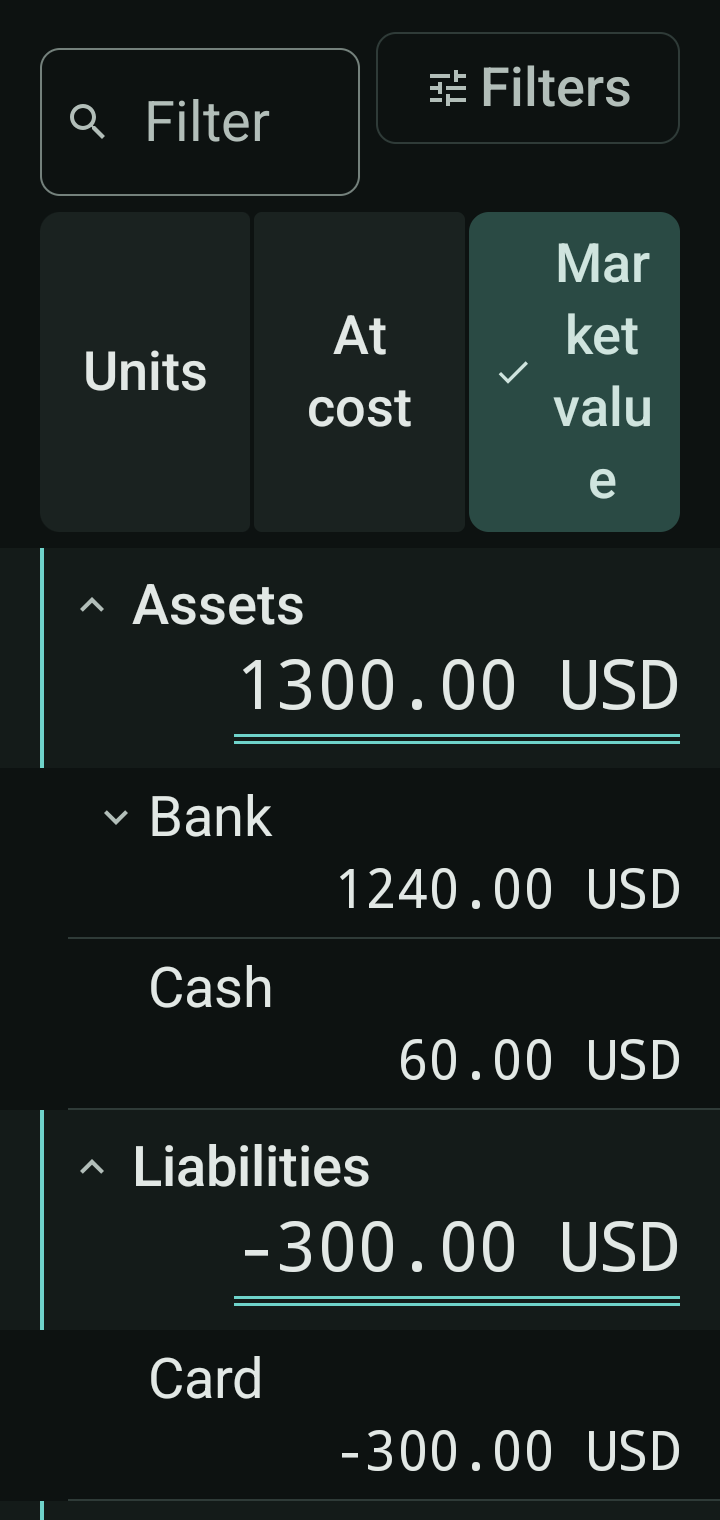
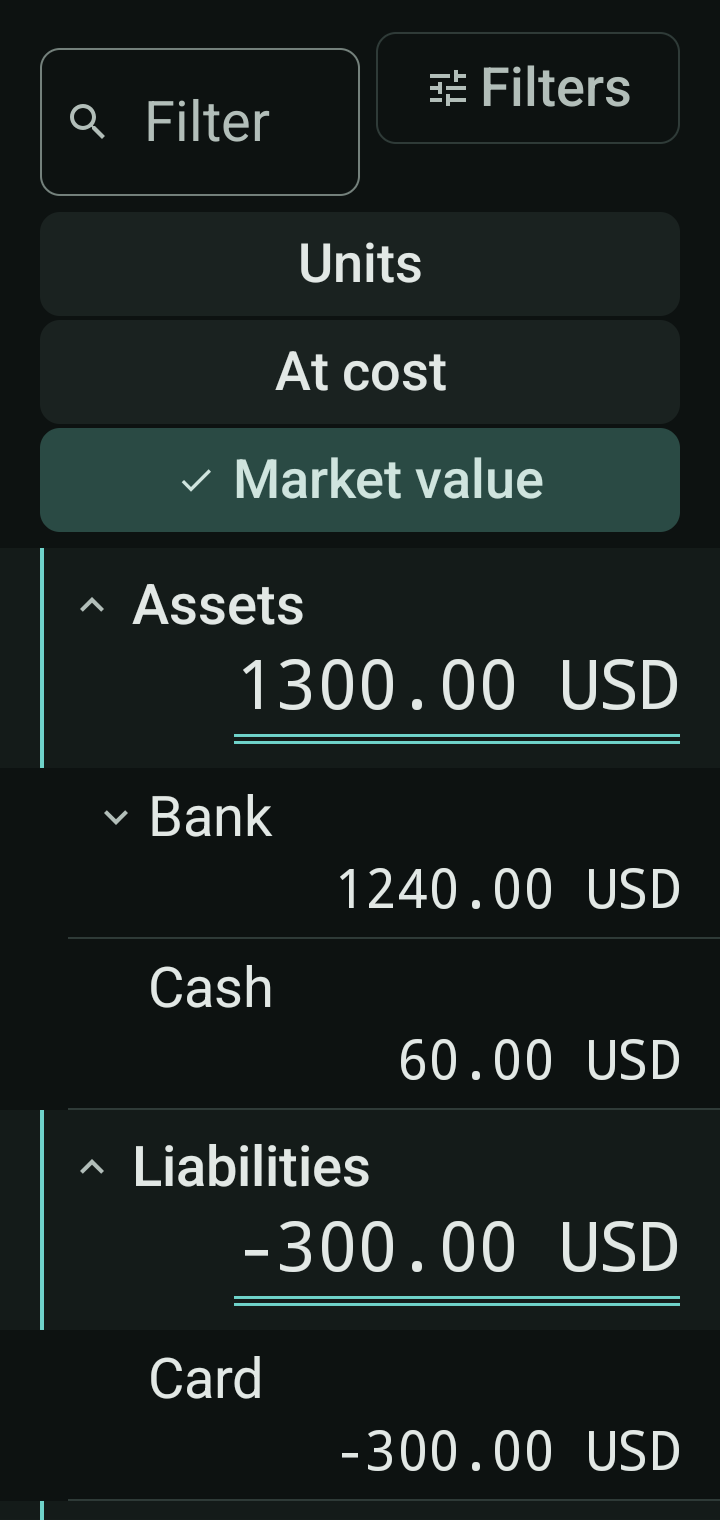
Home, Journal and Balances: the basis choice stacks at large text instead of breaking a word (#299)

Changed region(s): [[0.0306, 0.1237, 0.9472, 0.3711]]

diff --git a/app/src/main/kotlin/io/github/pintofi/beanbook/app/ui/ExpressiveControls.kt b/app/src/main/kotlin/io/github/pintofi/beanbook/app/ui/ExpressiveControls.kt
@@ -4,6 +4,8 @@ import androidx.compose.foundation.BorderStroke
 import androidx.compose.foundation.background
 import androidx.compose.foundation.layout.Arrangement
 import androidx.compose.foundation.layout.Box
+import androidx.compose.foundation.layout.BoxWithConstraints
+import androidx.compose.foundation.layout.Column
 import androidx.compose.foundation.layout.IntrinsicSize
 import androidx.compose.foundation.layout.Row
 import androidx.compose.foundation.layout.fillMaxHeight
@@ -29,14 +31,17 @@ import androidx.compose.material3.ToggleButtonDefaults
 import androidx.compose.material3.ToggleButtonShapes
 import androidx.compose.material3.toShape
 import androidx.compose.runtime.Composable
+import androidx.compose.runtime.remember
 import androidx.compose.ui.Alignment
 import androidx.compose.ui.Modifier
 import androidx.compose.ui.graphics.Color
+import androidx.compose.ui.platform.LocalDensity
 import androidx.compose.ui.semantics.Role
 import androidx.compose.ui.semantics.contentDescription
 import androidx.compose.ui.semantics.role
 import androidx.compose.ui.semantics.selected
 import androidx.compose.ui.semantics.semantics
+import androidx.compose.ui.text.rememberTextMeasurer
 import androidx.compose.ui.text.style.TextAlign
 import androidx.compose.ui.text.style.TextOverflow
 import androidx.compose.ui.unit.Dp
@@ -76,53 +81,111 @@ fun <T> ConnectedChoiceRow(
     border: BorderStroke? = null,
     maxLines: Int = Int.MAX_VALUE,
 ) {
-    // Intrinsic height, so a label that wraps at 200% text makes its whole row taller rather
-    // than leaving one segment standing above the others.
-    Row(
-        modifier = modifier
-            .height(IntrinsicSize.Min)
-            .selectableGroup(),
-        horizontalArrangement = Arrangement.spacedBy(ButtonGroupDefaults.ConnectedSpaceBetween),
-        verticalAlignment = Alignment.CenterVertically,
-    ) {
-        options.forEachIndexed { index, option ->
-            val chosen = option == selected
-            ToggleButton(
-                checked = chosen,
-                // A chosen segment stays chosen when tapped again: one option is always on,
-                // as it was in the segmented row this replaces.
-                onCheckedChange = { onSelect(option) },
-                modifier = Modifier
-                    .weight(1f)
-                    .fillMaxHeight()
-                    .semantics {
-                        role = Role.RadioButton
-                        this.selected = chosen
-                        describe?.let { contentDescription = it(option) }
-                    },
-                shapes = connectedShapes(index, options.size),
-                colors = colors,
-                // Flat: the row sits on ruled paper, and a shadow under each segment would
-                // make five objects of what is one control.
-                elevation = null,
-                border = border,
-                contentPadding = ConnectedChoicePadding,
-                icon = if (chosen) {
-                    { Icon(Icons.Filled.Check, contentDescription = null) }
-                } else {
-                    null
-                },
+    BoxWithConstraints(modifier = modifier) {
+        // A label may wrap between words, but never inside one: "Mar / ket / val / ue" is not a
+        // label. When even the longest word does not fit its share of the row, as with three
+        // choices at 200% text on a narrow phone, the segments stack, one to a line.
+        val stacked = maxLines == Int.MAX_VALUE && !wordsFit(options.map(label), maxWidth)
+        if (stacked) {
+            Column(
+                modifier = Modifier.fillMaxWidth().selectableGroup(),
+                verticalArrangement = Arrangement.spacedBy(ButtonGroupDefaults.ConnectedSpaceBetween),
             ) {
-                Text(
-                    label(option),
-                    maxLines = maxLines,
-                    overflow = if (maxLines == Int.MAX_VALUE) TextOverflow.Clip else TextOverflow.Ellipsis,
-                    textAlign = TextAlign.Center,
-                )
+                options.forEach { option ->
+                    ChoiceButton(
+                        option, option == selected, onSelect, label, describe, colors, border, maxLines,
+                        shapes = connectedShapes(0, 1),
+                        modifier = Modifier.fillMaxWidth(),
+                    )
+                }
+            }
+        } else {
+            // Intrinsic height, so a label that wraps at 200% text makes its whole row taller rather
+            // than leaving one segment standing above the others.
+            Row(
+                modifier = Modifier
+                    .height(IntrinsicSize.Min)
+                    .selectableGroup(),
+                horizontalArrangement = Arrangement.spacedBy(ButtonGroupDefaults.ConnectedSpaceBetween),
+                verticalAlignment = Alignment.CenterVertically,
+            ) {
+                options.forEachIndexed { index, option ->
+                    ChoiceButton(
+                        option, option == selected, onSelect, label, describe, colors, border, maxLines,
+                        shapes = connectedShapes(index, options.size),
+                        modifier = Modifier.weight(1f).fillMaxHeight(),
+                    )
+                }
             }
         }
     }
 }
+
+/** Whether the longest word of every label fits its share of a row [width] wide, at the current text size. */
+@Composable
+private fun wordsFit(labels: List<String>, width: Dp): Boolean {
+    val measurer = rememberTextMeasurer()
+    val style = MaterialTheme.typography.labelLarge
+    val density = LocalDensity.current
+    return remember(labels, width, style, density) {
+        val gaps = ButtonGroupDefaults.ConnectedSpaceBetween * (labels.size - 1)
+        val room = (width - gaps) / labels.size - ConnectedChoicePadding.horizontal() - CHECK_ROOM
+        val share = with(density) { room.toPx() }
+        labels.flatMap { it.split(' ') }.all { measurer.measure(it, style).size.width <= share }
+    }
+}
+
+@Composable
+private fun <T> ChoiceButton(
+    option: T,
+    chosen: Boolean,
+    onSelect: (T) -> Unit,
+    label: (T) -> String,
+    describe: ((T) -> String)?,
+    colors: ToggleButtonColors,
+    border: BorderStroke?,
+    maxLines: Int,
+    shapes: ToggleButtonShapes,
+    modifier: Modifier,
+) {
+    ToggleButton(
+        checked = chosen,
+        // A chosen segment stays chosen when tapped again: one option is always on,
+        // as it was in the segmented row this replaces.
+        onCheckedChange = { onSelect(option) },
+        modifier = modifier.semantics {
+            role = Role.RadioButton
+            this.selected = chosen
+            describe?.let { contentDescription = it(option) }
+        },
+        shapes = shapes,
+        colors = colors,
+        // Flat: the row sits on ruled paper, and a shadow under each segment would
+        // make five objects of what is one control.
+        elevation = null,
+        border = border,
+        contentPadding = ConnectedChoicePadding,
+        icon = if (chosen) {
+            { Icon(Icons.Filled.Check, contentDescription = null) }
+        } else {
+            null
+        },
+    ) {
+        Text(
+            label(option),
+            maxLines = maxLines,
+            overflow = if (maxLines == Int.MAX_VALUE) TextOverflow.Clip else TextOverflow.Ellipsis,
+            textAlign = TextAlign.Center,
+        )
+    }
+}
+
+/** What the tick on a chosen segment takes from the label: its icon and the space beside it. */
+private val CHECK_ROOM = 26.dp
+
+private fun androidx.compose.foundation.layout.PaddingValues.horizontal(): Dp =
+    calculateLeftPadding(androidx.compose.ui.unit.LayoutDirection.Ltr) +
+        calculateRightPadding(androidx.compose.ui.unit.LayoutDirection.Ltr)
 
 /**
  * Narrower side padding than a standalone button's 16dp: three segments share a phone's width,

diff --git a/app/src/androidTest/kotlin/io/github/pintofi/beanbook/app/ui/ConnectedChoiceRowTest.kt b/app/src/androidTest/kotlin/io/github/pintofi/beanbook/app/ui/ConnectedChoiceRowTest.kt
@@ -1,0 +1,86 @@
+package io.github.pintofi.beanbook.app.ui
+
+import androidx.activity.ComponentActivity
+import androidx.compose.foundation.layout.Box
+import androidx.compose.foundation.layout.fillMaxHeight
+import androidx.compose.foundation.layout.padding
+import androidx.compose.foundation.layout.width
+import androidx.compose.material3.MaterialTheme
+import androidx.compose.runtime.CompositionLocalProvider
+import androidx.compose.ui.Modifier
+import androidx.compose.ui.platform.LocalDensity
+import androidx.compose.ui.semantics.SemanticsActions
+import androidx.compose.ui.semantics.getOrNull
+import androidx.compose.ui.test.junit4.v2.createAndroidComposeRule
+import androidx.compose.ui.test.onNodeWithText
+import androidx.compose.ui.text.TextLayoutResult
+import androidx.compose.ui.unit.Density
+import androidx.compose.ui.unit.dp
+import androidx.test.ext.junit.runners.AndroidJUnit4
+import org.junit.Assert.assertEquals
+import org.junit.Assert.assertTrue
+import org.junit.Rule
+import org.junit.Test
+import org.junit.runner.RunWith
+
+/**
+ * The Units, At cost and Market value row at double text size on a narrow phone: a label may wrap
+ * between words, but never inside one ("Mar / ket / val / ue").
+ */
+@RunWith(AndroidJUnit4::class)
+class ConnectedChoiceRowTest {
+    @get:Rule val compose = createAndroidComposeRule<ComponentActivity>()
+
+    private val labels = listOf("Units", "At cost", "Market value")
+
+    private fun render(widthDp: Int, fontScale: Float) {
+        compose.setContent {
+            val base = LocalDensity.current
+            CompositionLocalProvider(LocalDensity provides Density(base.density, fontScale)) {
+                MaterialTheme {
+                    Box(Modifier.width(widthDp.dp).fillMaxHeight().padding(horizontal = 16.dp)) {
+                        ConnectedChoiceRow(options = labels, selected = labels.last(), onSelect = {}, label = { it })
+                    }
+                }
+            }
+        }
+        compose.waitForIdle()
+    }
+
+    /** The text of each rendered line of [label], as the layout broke it. */
+    private fun lines(label: String): List<String> {
+        val node = compose.onNodeWithText(label).fetchSemanticsNode()
+        val results = mutableListOf<TextLayoutResult>()
+        node.config.getOrNull(SemanticsActions.GetTextLayoutResult)?.action?.invoke(results)
+        val layout = results.single()
+        return (0 until layout.lineCount).map {
+            layout.layoutInput.text.text.substring(layout.getLineStart(it), layout.getLineEnd(it)).trim()
+        }
+    }
+
+    private fun assertNoWordIsBroken() {
+        labels.forEach { label ->
+            assertEquals(
+                "\"$label\" was broken inside a word: ${lines(label)}",
+                label,
+                lines(label).joinToString(" "),
+            )
+        }
+    }
+
+    @Test fun atDoubleTextOnANarrowPhoneNoLabelIsBrokenInsideAWord() {
+        render(widthDp = 360, fontScale = 2f)
+        assertNoWordIsBroken()
+    }
+
+    @Test fun atTheLargestTextSizeToo() {
+        render(widthDp = 320, fontScale = 3f)
+        assertNoWordIsBroken()
+    }
+
+    @Test fun atNormalSizeItStaysOneRow() {
+        render(widthDp = 360, fontScale = 1f)
+        val tops = labels.map { compose.onNodeWithText(it).fetchSemanticsNode().boundsInRoot.top }
+        assertTrue("the three choices should share a row at normal size: $tops", tops.distinct().size == 1)
+    }
+}

diff --git a/CHANGELOG.md b/CHANGELOG.md
@@ -18,6 +18,7 @@ and this project adheres to [Semantic Versioning](https://semver.org/spec/v2.0.0
 - Units, At cost and Market value are on the widgets themselves: tap one to change that widget's basis, instead of choosing it in the widget's settings. The row is left out on a widget too short to hold it, and the net worth widget no longer has a settings screen. The preview shown when you pick a widget shows the row. ([#277])
 
 ### Fixed
+- The Units, At cost and Market value choice stacks its three buttons, one to a line, when the text is too large for them to share a row, instead of breaking "Market value" in the middle of a word. ([#245])
 - Importing an archive reads an entry name like `a/../main.beancount` as `main.beancount` before anything else is decided, so a shared top folder can no longer leave a path pointing above the project, and two spellings of one file are reported as a duplicate instead of one silently replacing the other. Nothing was ever written outside the project. ([#296])
 - Unlinking a document that an entry names in its own `document:` metadata no longer changes every line ending in a ledger saved with Windows (CRLF) line endings. ([#295])
 - The Units, At cost and Market value buttons on a widget no longer come and go while you resize it: whether there is room for them is now judged by the size the launcher reports, and by the height that applies when the phone is on its side. ([#286])
@@ -259,6 +260,7 @@ and this project adheres to [Semantic Versioning](https://semver.org/spec/v2.0.0
 [#234]: https://github.com/pintofi/beanbook/issues/234
 [#235]: https://github.com/pintofi/beanbook/issues/235
 [#236]: https://github.com/pintofi/beanbook/issues/236
+[#245]: https://github.com/pintofi/beanbook/issues/245
 [#249]: https://github.com/pintofi/beanbook/issues/249
 [#259]: https://github.com/pintofi/beanbook/issues/259
 [#261]: https://github.com/pintofi/beanbook/issues/261
